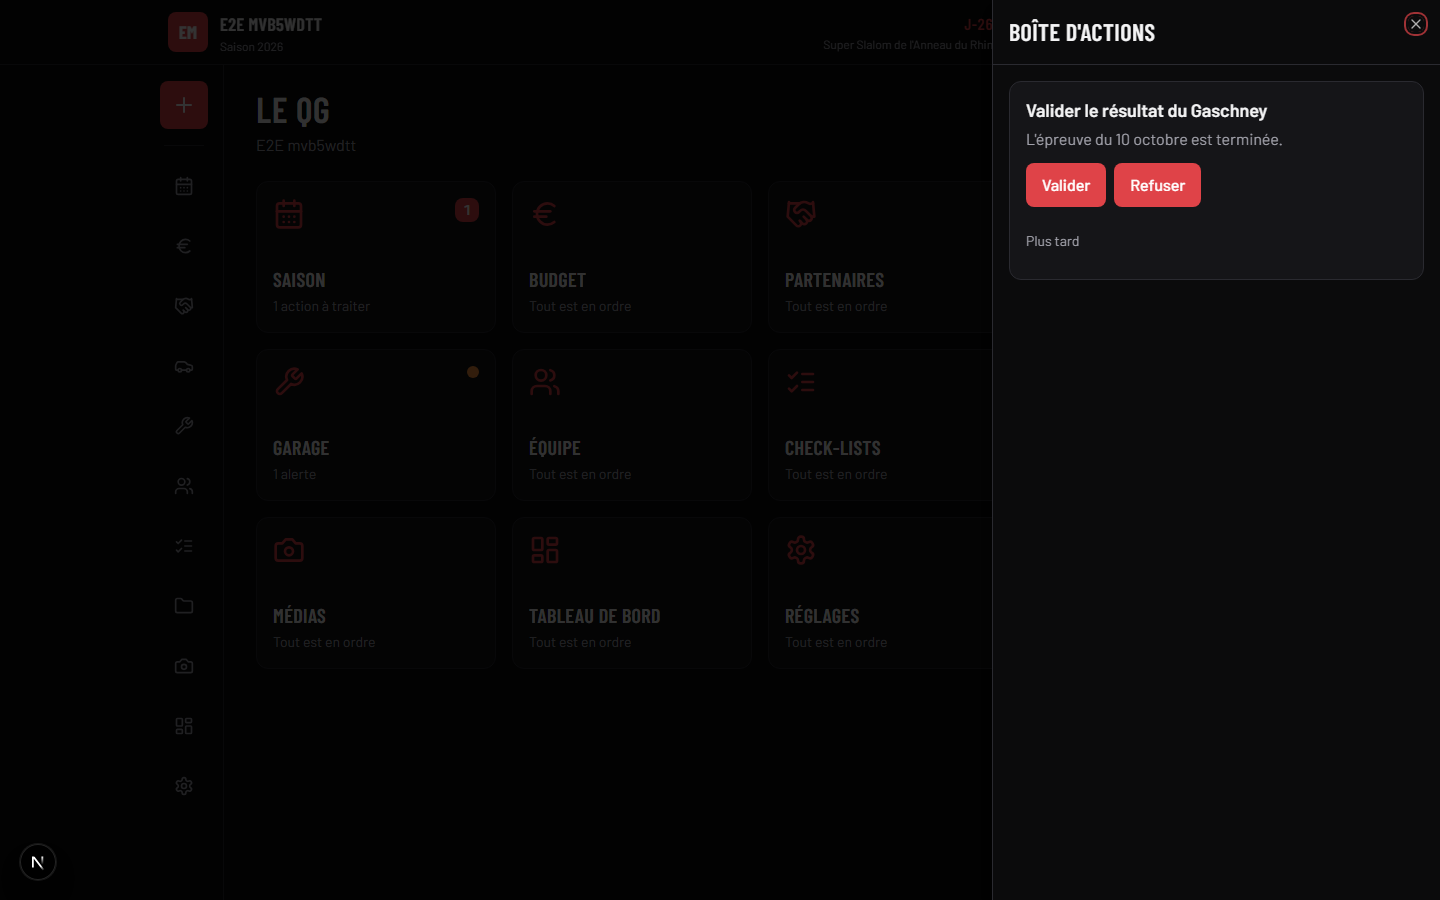
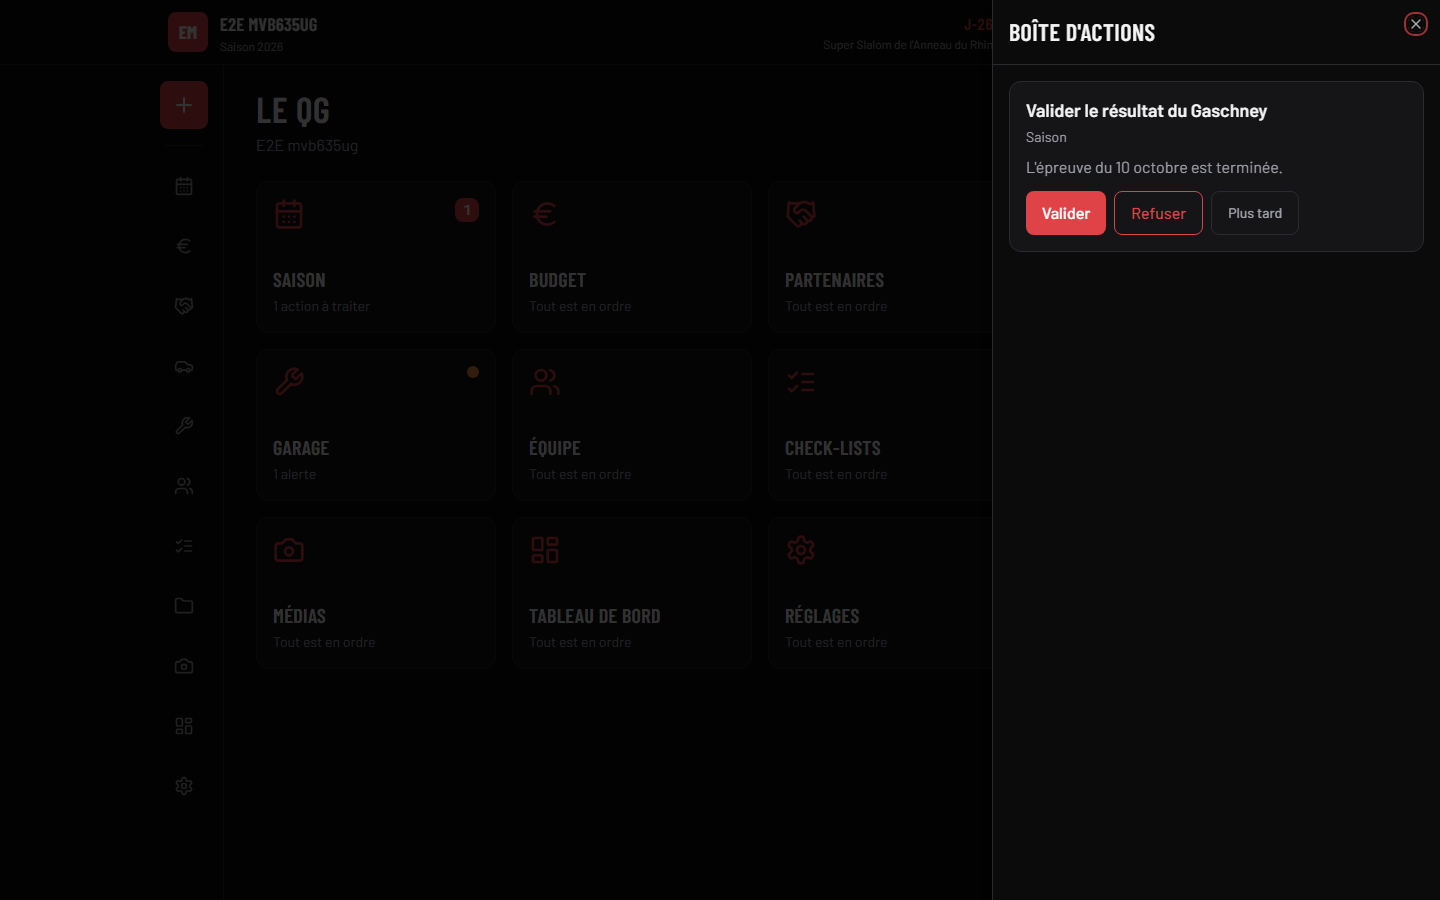
Affine la boîte d'actions et le bouton Prochaine étape
Boîte : premier bouton plein, suivants en contour, « Plus tard » discret de même hauteur, app d'origine et échéance sous le titre. Prochaine étape ouvre la boîte sur l'action (paramètre d'URL, groupe déplié, défilement). Captures de fenêtre seule du QG, indicateur Next masqué sur la boîte. Scénario e2e dédié.

Changed region(s): [[0.6875, 0.1244, 0.875, 0.28], [0.2188, 0.1556, 0.25, 0.1867]]

diff --git a/src/components/qg/boite-actions.tsx b/src/components/qg/boite-actions.tsx
@@ -1,5 +1,6 @@
 import Link from "next/link"
 
+import { APPS } from "@/core/catalogue"
 import { deciderAction, reporterAction } from "@/core/actions/formulaires"
 import type { GroupeAction } from "@/core/actions/regroupement"
 import type { ActionBoite } from "@/core/actions/filtrage"
@@ -40,39 +41,40 @@ export function BoiteActions({ groupes }: { groupes: GroupeAction[] }) {
   )
 }
 
+// Hiérarchie des boutons : le premier est plein, les suivants en contour, « Plus tard » discret.
+// Tous ont la même hauteur (même padding, même police).
+const BOUTON_BASE = "cible-tactile inline-flex items-center rounded-md px-4 py-2 font-medium"
+const BOUTON_PRINCIPAL = `${BOUTON_BASE} bg-marque text-white hover:opacity-90`
+const BOUTON_SECONDAIRE = `${BOUTON_BASE} border border-marque text-marque hover:bg-surface-2`
+const BOUTON_DISCRET = `${BOUTON_BASE} border border-bordure text-texte-discret hover:bg-surface-2`
+
 function CarteAction({ action }: { action: ActionBoite }) {
   const boutons = action.boutons as Array<{ cle: string; libelle: string }>
   const echeance = action.echeance
     ? new Intl.DateTimeFormat("fr-FR", { day: "numeric", month: "long" }).format(action.echeance)
     : null
+  // Ligne discrète : l'app d'origine, puis l'échéance si elle existe.
+  const nomApp = APPS.find((app) => app.cle === action.appOrigine)?.nom ?? action.appOrigine
+  const ligne = [nomApp, echeance ? `avant le ${echeance}` : null].filter(Boolean).join(" · ")
 
   return (
-    <article className="rounded-lg border border-bordure bg-surface p-4">
+    <article id={`action-${action.id}`} className="scroll-mt-24 rounded-lg border border-bordure bg-surface p-4">
       <h3 className="text-lg font-semibold leading-snug">{action.titre}</h3>
-      {action.contexte && <p className="mt-1 text-texte-discret">{action.contexte}</p>}
-      {echeance && <p className="mt-1 text-sm text-texte-discret">Avant le {echeance}</p>}
+      <p className="mt-1 text-sm text-texte-discret">{ligne}</p>
+      {action.contexte && <p className="mt-2 text-texte-discret">{action.contexte}</p>}
 
-      <div className="mt-3 flex flex-wrap gap-2">
-        {boutons.map((bouton) => (
+      <div className="mt-3 flex flex-wrap items-start gap-2">
+        {boutons.map((bouton, index) => (
           <form key={bouton.cle} action={deciderAction}>
             <input type="hidden" name="actionId" value={action.id} />
-            <button
-              type="submit"
-              name="cleBouton"
-              value={bouton.cle}
-              className="cible-tactile rounded-md bg-marque px-4 py-2 font-medium text-white hover:opacity-90"
-            >
+            <button type="submit" name="cleBouton" value={bouton.cle} className={index === 0 ? BOUTON_PRINCIPAL : BOUTON_SECONDAIRE}>
               {bouton.libelle}
             </button>
           </form>
         ))}
-      </div>
 
-      <div className="mt-3 flex flex-wrap items-center gap-3 text-sm">
-        <details>
-          <summary className="cible-tactile flex cursor-pointer items-center text-texte-discret underline-offset-4 hover:underline">
-            Plus tard
-          </summary>
+        <details className="text-sm">
+          <summary className={`${BOUTON_DISCRET} cursor-pointer list-none`}>Plus tard</summary>
           <div className="mt-2 flex flex-wrap gap-2">
             {[
               { jours: 1, libelle: "Demain" },
@@ -82,7 +84,7 @@ function CarteAction({ action }: { action: ActionBoite }) {
               <form key={choix.jours} action={reporterAction}>
                 <input type="hidden" name="actionId" value={action.id} />
                 <input type="hidden" name="jours" value={choix.jours} />
-                <button type="submit" className="cible-tactile rounded-md border border-bordure px-3 py-1 hover:bg-surface-2">
+                <button type="submit" className={BOUTON_DISCRET}>
                   {choix.libelle}
                 </button>
               </form>
@@ -91,7 +93,7 @@ function CarteAction({ action }: { action: ActionBoite }) {
         </details>
 
         {action.ficheType && (
-          <Link href={`/apps/${action.appOrigine}`} className="cible-tactile flex items-center text-marque underline-offset-4 hover:underline">
+          <Link href={`/apps/${action.appOrigine}`} className="cible-tactile inline-flex items-center px-2 py-2 text-marque underline-offset-4 hover:underline">
             Ouvrir
           </Link>
         )}

diff --git a/src/components/qg/conteneur-boite.tsx b/src/components/qg/conteneur-boite.tsx
@@ -1,14 +1,54 @@
 "use client"
 
-import type { ReactNode } from "react"
+import { useEffect, useState, type ReactNode } from "react"
+import { usePathname, useRouter, useSearchParams } from "next/navigation"
 
 import { Sheet, SheetContent, SheetHeader, SheetTitle, SheetTrigger } from "@/components/ui/sheet"
 
 // Panneau de la boîte d'actions : à droite sur PC, pleine largeur sur téléphone.
 // Le contenu est rendu côté serveur (BoiteActions) et passé en enfant.
-export function ConteneurBoite({ declencheur, children }: { declencheur: ReactNode; children: ReactNode }) {
+// Paramètre d'URL « boite=<id> » : le panneau s'ouvre, le groupe de l'action se déplie, et la
+// liste fait défiler jusqu'à elle. Seule l'instance « écoute » lit le paramètre (il y a deux
+// instances sur téléphone : la barre haute et la barre basse).
+export function ConteneurBoite({
+  declencheur,
+  children,
+  ecouteUrl = false,
+}: {
+  declencheur: ReactNode
+  children: ReactNode
+  ecouteUrl?: boolean
+}) {
+  const parametres = useSearchParams()
+  const router = useRouter()
+  const chemin = usePathname()
+  const cible = ecouteUrl ? parametres.get("boite") : null
+  const [ouvert, setOuvert] = useState(false)
+
+  useEffect(() => {
+    if (cible) setOuvert(true)
+  }, [cible])
+
+  // Le panneau est monté à l'ouverture : on attend une image avant de chercher l'action.
+  useEffect(() => {
+    if (!ouvert || !cible) return
+    const image = window.requestAnimationFrame(() => {
+      const action = document.getElementById(`action-${cible}`)
+      if (!action) return
+      action.closest("details")?.setAttribute("open", "")
+      action.scrollIntoView({ block: "center" })
+    })
+    return () => window.cancelAnimationFrame(image)
+  }, [ouvert, cible])
+
+  function changerOuverture(valeur: boolean) {
+    setOuvert(valeur)
+    // Fermé : on retire le paramètre, pour qu'une réouverture ne rejoue pas l'action ciblée.
+    if (!valeur && cible) router.replace(chemin)
+  }
+
   return (
-    <Sheet>
+    <Sheet open={ouvert} onOpenChange={changerOuverture}>
       <SheetTrigger asChild>{declencheur}</SheetTrigger>
       <SheetContent side="right" className="w-full overflow-y-auto border-bordure bg-fond p-0 text-texte sm:max-w-md">
         <SheetHeader className="border-b border-bordure px-4 py-4 text-left">

diff --git a/e2e/captures.spec.ts b/e2e/captures.spec.ts
@@ -11,6 +11,11 @@ import { preparerDonneesCaptures } from "./aide/session"
 
 const DOSSIER = path.join(__dirname, "..", "docs", "captures")
 
+// Fenêtre seule : on masque seulement l'indicateur de développement de Next.
+async function masquerIndicateur(page: Page): Promise<void> {
+  await page.addStyleTag({ content: "nextjs-portal { display: none !important; }" })
+}
+
 // Une capture pleine page place les éléments fixes à leur position d'écran : la barre basse
 // se retrouverait au milieu de la page. Elle est posée en absolu, au bas du document. Les
 // autres éléments fixes (bouton « Prochaine étape » flottant) et l'indicateur de développement
@@ -40,14 +45,19 @@ test("captures : QG, Identité et boîte d'actions", async ({ page, equipe }) =>
   await preparerCapture(page)
   await page.screenshot({ path: path.join(DOSSIER, "qg-1440x900.png"), fullPage: true })
 
+  // Fenêtre seule, sans préparation : le bouton Prochaine étape reste visible à sa place.
+  await page.goto("/qg")
+  await masquerIndicateur(page)
+  await page.screenshot({ path: path.join(DOSSIER, "qg-ecran-1440x900.png"), fullPage: false })
+
   // La boîte d'actions s'ouvre dans un panneau fixe : pas de préparation de la page, sinon
   // le panneau serait masqué.
-  await page.goto("/qg")
   await page.getByRole("button", { name: /Boîte d'actions/ }).click()
   const panneau = page.getByRole("dialog")
   await expect(panneau.getByText("Valider le résultat du Gaschney")).toBeVisible()
   // Le panneau glisse depuis la droite : on attend la fin de l'animation avant la capture.
   await expect(panneau).toHaveCSS("transform", "none")
+  await masquerIndicateur(page)
   await page.screenshot({ path: path.join(DOSSIER, "boite-actions-1440x900.png") })
   await page.keyboard.press("Escape")
 
@@ -61,4 +71,8 @@ test("captures : QG, Identité et boîte d'actions", async ({ page, equipe }) =>
   await expect(page.getByRole("navigation", { name: "Navigation rapide" })).toBeVisible()
   await preparerCapture(page)
   await page.screenshot({ path: path.join(DOSSIER, "qg-360x740.png"), fullPage: true })
+
+  await page.goto("/qg")
+  await masquerIndicateur(page)
+  await page.screenshot({ path: path.join(DOSSIER, "qg-ecran-360x740.png"), fullPage: false })
 })

diff --git a/src/app/(app)/layout.tsx b/src/app/(app)/layout.tsx
@@ -49,7 +49,14 @@ export default async function LayoutApp({ children }: { children: ReactNode }) {
       )}
     </button>
   )
+  // Deux instances : la barre haute écoute le paramètre « boite » (lien du bouton Prochaine
+  // étape) ; la barre basse, sur téléphone, n'écoute pas, pour n'ouvrir qu'un seul panneau.
   const boite = (
+    <ConteneurBoite declencheur={declencheur} ecouteUrl>
+      <BoiteActions groupes={donnees.groupes} />
+    </ConteneurBoite>
+  )
+  const boiteMobile = (
     <ConteneurBoite declencheur={declencheur}>
       <BoiteActions groupes={donnees.groupes} />
     </ConteneurBoite>
@@ -81,7 +88,7 @@ export default async function LayoutApp({ children }: { children: ReactNode }) {
       />
 
       <div className="mx-auto flex max-w-6xl">
-        <Navigation apps={apps} entreesPlus={entreesPlus} boiteMobile={boite} />
+        <Navigation apps={apps} entreesPlus={entreesPlus} boiteMobile={boiteMobile} />
         <main className="min-w-0 flex-1 px-4 pb-32 pt-6 md:px-8 md:pb-16">{children}</main>
       </div>
 

diff --git a/e2e/prochaine-etape.spec.ts b/e2e/prochaine-etape.spec.ts
@@ -1,0 +1,20 @@
+import { expect, test } from "./aide/fixtures"
+import { connecterParLien } from "./aide/navigation"
+import { preparerDonneesCaptures } from "./aide/session"
+
+test("le bouton Prochaine étape affiche Valider le résultat du Gaschney et ouvre la boîte d'actions", async ({ page, equipe }) => {
+  preparerDonneesCaptures(equipe)
+  await connecterParLien(page, equipe)
+  await page.goto("/qg")
+
+  const bouton = page.getByRole("link", { name: /Valider le résultat du Gaschney/ })
+  await expect(bouton).toBeVisible()
+  await expect(bouton).toHaveAttribute("href", /\/qg\?boite=/)
+  await bouton.click()
+
+  // Le panneau s'ouvre, l'URL garde la cible, et l'action est dans la zone visible.
+  await expect(page).toHaveURL(/\/qg\?boite=/)
+  const panneau = page.getByRole("dialog")
+  await expect(panneau.getByRole("heading", { name: "Valider le résultat du Gaschney" })).toBeVisible()
+  await expect(panneau.locator("article", { hasText: "Valider le résultat du Gaschney" })).toBeInViewport()
+})

diff --git a/src/components/qg/bouton-prochaine-etape.tsx b/src/components/qg/bouton-prochaine-etape.tsx
@@ -13,7 +13,9 @@ export function BoutonProchaineEtape({ etape, maintenant }: { etape: ProchaineEt
     )
   }
 
-  const destination = etape.genre === "action" ? `/apps/${etape.action.appOrigine}` : "/apps/saison"
+  // Action : la boîte d'actions s'ouvre sur cette action (pas l'app d'origine, qui n'a pas
+  // encore d'écran). Compte à rebours : la saison.
+  const destination = etape.genre === "action" ? `/qg?boite=${etape.action.id}` : "/apps/saison"
   // Action : son titre et sa raison. Compte à rebours : le décompte, puis le nom de l'épreuve.
   const compteARebours = etape.genre === "compte_a_rebours" ? libelleCompteARebours(etape.epreuve, maintenant) : null
   const titreAffiche = etape.genre === "action" ? etape.libelle : etape.epreuve.nom

diff --git a/documentation/JOURNAL.md b/documentation/JOURNAL.md
@@ -28,3 +28,4 @@
 - Réglages, suite : base shadow débloquée (migration `core_rls` rendue conditionnelle, checksum mise à jour, essai de création de migration réussi, règle documentée dans `docs/conventions-schema.md`). Rubriques Rôles et droits (matrice membres × apps, garde sur Réglages), Apps (activation, ordre, dépendances requises), mode terrain en préférence de membre (cookie `er_terrain` supprimé), jour d'épreuve en réglage de team, aperçu couleur en direct. Règles pures testées.
 - Tests de bout en bout (1.10c) : Playwright 1.64 (`@playwright/test`, Chromium installé), `playwright.config.ts` avec un serveur dédié sur le port 3100 (`.next-e2e`, SMTP vide, mail en console). Aide `e2e/aide/` : team jetable « E2E <horodatage> » avec 11 apps, comptes, jetons de lien ou de code hachés comme l'app, nettoyage complet dans la fixture (même en cas d'échec). Dix scénarios passent (connexion par lien, par code, déconnexion, identité, apps, droits, boîte d'actions, mode terrain, téléphone) plus les captures. Bug corrigé dans l'app : après « Revenir aux droits du rôle », le sélecteur de la matrice gardait l'ancienne valeur tant que la page n'était pas rechargée (le select non contrôlé ne suit pas `defaultValue`). Le sélecteur est remonté quand le niveau effectif change. Captures dans `docs/captures/`. Documentation dans `docs/tests.md`.
 - Réglages, fin (1.10b) : rubriques personnelles ouvertes à tout membre (notifications, affichage, appareils, données et confidentialité, mon compte), avec leurs actions et leurs événements. Thème et taille du texte posés au rendu serveur (classe sur `<html>`), sombre et clair par `forcedTheme`. Demandes d'export et de suppression (compte ou team) avec délai de 30 jours, annulables, sans purge. Quitter une team refusé au dernier responsable. Apprentissage progressif sur `/apps/[cle]`. Initiales de la team unifiées (`initialesTeam`). Corrections relevées sur les captures : plus de « (en 1.10b) », titre de chaque rubrique, libellé « Actions » sur la barre basse, mentions d'attente au format « Bientôt » avec sa raison. Données Koehling sortent de `donnees-koehling.ts` vers `scripts/lib/`, réutilisées par les captures. Règles pures testées (`regles-personnelles`, `initiales`). Tests e2e : `reglages-personnels.spec.ts`, cinq scénarios. Restent en « Bientôt » : logo, valeurs par défaut de la team, génération des exports, purge, glisser-déposer des apps, SMS. Documentation dans `docs/reglages.md`.
+- Finitions du QG (1.10d) : captures de fenêtre seule (`qg-ecran-1440x900.png`, `qg-ecran-360x740.png`) où le bouton Prochaine étape reste visible ; indicateur Next masqué aussi sur la boîte d'actions. Boîte : premier bouton plein, suivants en contour, « Plus tard » discret de même hauteur ; sous le titre, l'app d'origine et l'échéance. Bouton Prochaine étape : une action ouvre `/qg?boite=<id>`, le panneau s'ouvre sur l'action (groupe déplié, défilement). Seule la barre haute lit le paramètre. Scénario e2e `prochaine-etape.spec.ts`. Documentation dans `docs/qg.md`.

diff --git a/docs/tests.md b/docs/tests.md
@@ -49,13 +49,14 @@ Les écritures de l'aide sont en SQL direct (`pg`). Le client Prisma généré e
 | `e2e/terrain.spec.ts` | h. mode terrain : classe `terrain` sur `<html>`, `settings_member_pref.mode_terrain` vrai |
 | `e2e/telephone.spec.ts` | i. viewport 360×740 : pas de défilement horizontal, barre basse visible |
 | `e2e/reglages-personnels.spec.ts` | thème clair persisté et présent dans le HTML du serveur ; déconnexion de l'appareil courant ; suppression de compte refusée au responsable seul, puis demandée et annulée par un équipier (contrôle en base) ; quitter une team refusé au dernier responsable ; assistance : rubriques personnelles ouvertes, celles de la team refusées |
+| `e2e/prochaine-etape.spec.ts` | le bouton Prochaine étape affiche « Valider le résultat du Gaschney », son lien ouvre la boîte sur cette action, qui est dans la zone visible |
 | `e2e/captures.spec.ts` | captures pleine page et boîte d'actions, sur une team avec les données de démonstration |
 
 Pour le scénario e, le bouton « Désactiver » de Voiture est désactivé par l'interface quand Garage la requiert. Le test vérifie ce blocage et le message, sans tenter le clic.
 
 ### Captures
 
-`docs/captures/` : `qg-1440x900.png`, `qg-360x740.png`, `identite-1440x900.png`, `boite-actions-1440x900.png`. Pour une capture pleine page, la barre basse et les éléments fixes sont posés en absolu au bas du document, et l'indicateur de développement de Next est masqué. Seul le rendu de la capture change.
+`docs/captures/` : `qg-1440x900.png`, `qg-360x740.png`, `identite-1440x900.png`, `boite-actions-1440x900.png` (pleines pages), et `qg-ecran-1440x900.png`, `qg-ecran-360x740.png` (fenêtre seule, le bouton Prochaine étape visible). Sur les fenêtres seules, seul l'indicateur de développement de Next est masqué. Pour une capture pleine page, la barre basse et les éléments fixes sont posés en absolu au bas du document, et l'indicateur de développement de Next est masqué. Seul le rendu de la capture change.
 
 La team des captures reçoit les données de démonstration Koehling (`e2e/aide/donnees-equipe.ts`, qui réutilise `scripts/lib/donnees-koehling.ts`), plus une alerte orange sur Garage et l'action « Valider le résultat du Gaschney » en priorité 3. Le compte à rebours, le badge et la pastille des tuiles, et le bouton Prochaine étape apparaissent ainsi sur les captures.
 

diff --git a/docs/qg.md b/docs/qg.md
@@ -7,8 +7,8 @@ Enveloppe commune de l'espace connecté : `src/app/(app)/`. Le layout charge une
 - `barre-haute.tsx` : logo, saison, prochaine épreuve et compte à rebours, boîte d'actions, recherche, mode terrain, menu (déconnexion).
 - `navigation.tsx` : colonne d'icônes sur PC, barre basse à quatre emplacements sur téléphone.
 - `grille-qg.tsx` : une tuile par app visible. Badge d'actions, pastille d'alerte, ligne d'état.
-- `boite-actions.tsx` et `conteneur-boite.tsx` : liste des actions (formulaires serveur), panneau latéral.
-- `bouton-prochaine-etape.tsx` : bouton flottant, avec le pourquoi ou le compte à rebours.
+- `boite-actions.tsx` et `conteneur-boite.tsx` : liste des actions (formulaires serveur), panneau latéral. Le premier bouton d'une action est plein, les suivants en contour, « Plus tard » est discret. Sous le titre : l'app d'origine et l'échéance. Paramètre d'URL `?boite=<id>` : le panneau s'ouvre, le groupe de l'action se déplie et la liste fait défiler jusqu'à elle. Seule la barre haute écoute le paramètre ; la barre basse ouvre sans lire l'URL.
+- `bouton-prochaine-etape.tsx` : bouton flottant, avec le pourquoi ou le compte à rebours. Pour une action, il pointe vers `/qg?boite=<id>` (la boîte, pas l'app d'origine, qui n'a pas encore d'écran).
 - `bouton-plus.tsx` et `entrees-plus.ts` : menu « + », filtré par le rôle, entrées désactivées avec leur raison.
 - `bandeau-terrain.tsx` : proposition du mode terrain le jour d'une épreuve.
 - `raccourci-recherche.tsx` : Ctrl+K vers la recherche.
